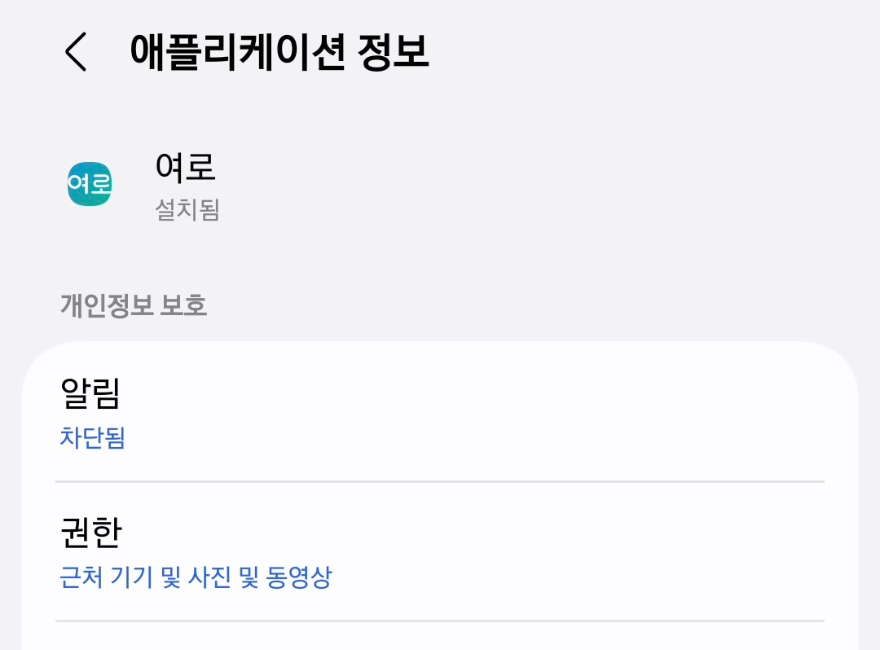
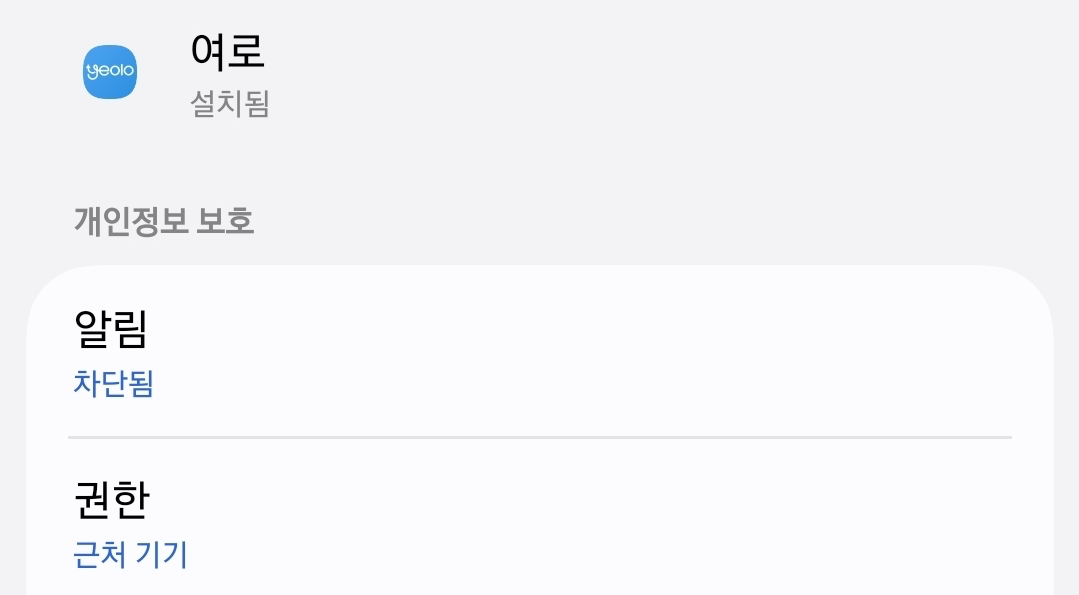
fix: 사진 권한 설정 버튼과 Android 안내 이미지 개선
- 전체 접근 권한에 따라 하단 버튼을 설정 이동 또는 취향 분석으로 전환
- 권한 설정 복귀 후 상태 갱신과 시작 전 권한 재확인 유지
- 중복 권한 안내 문구 제거 및 최신 앱 아이콘의 Android 안내 이미지 반영
- 권한 상태별 버튼 동작과 복귀 흐름 회귀 검증

diff --git a/packages/app/__tests__/OnboardingScreens.test.tsx b/packages/app/__tests__/OnboardingScreens.test.tsx
@@ -4,7 +4,7 @@
  */
 import React from 'react';
 import { AppState, Linking, Platform, type AppStateStatus } from 'react-native';
-import { act, fireEvent, waitFor } from '@testing-library/react-native';
+import { act, fireEvent } from '@testing-library/react-native';
 import { getPermissionsAsync } from 'expo-media-library';
 import { PhotoAuthExplainScreen } from '../src/screens/PhotoAuthExplainScreen';
 import { MBTIConsentScreen } from '../src/screens/MBTIConsentScreen';
@@ -45,6 +45,43 @@ beforeEach(() => {
   });
 });
 afterEach(() => jest.restoreAllMocks());
+
+it.each([
+  ['ios', 'limited', 'granted'],
+  ['ios', 'none', 'denied'],
+  ['android', 'limited', 'granted'],
+  ['android', 'none', 'denied'],
+] as const)(
+  '%s with %s access offers only the settings CTA and opens settings',
+  async (platform, accessPrivileges, status) => {
+    permission.mockResolvedValue({ status, accessPrivileges });
+    jest.replaceProperty(Platform, 'OS', platform);
+    const open = jest.spyOn(Linking, 'openSettings').mockResolvedValue();
+    const next = jest.fn();
+    const screen = await render(<PhotoAuthExplainScreen onNext={next} />);
+
+    expect(open).not.toHaveBeenCalled();
+    await fireEvent.press(
+      screen.getByRole('button', { name: '권한 설정으로 이동' }),
+    );
+
+    expect(open).toHaveBeenCalledTimes(1);
+    expect(next).not.toHaveBeenCalled();
+    expect(
+      screen.queryByText('전체 사진 접근을 허용한 뒤 다시 눌러주세요.'),
+    ).toBeNull();
+    expect(
+      screen.getByRole('button', { name: '권한 설정으로 이동' }),
+    ).not.toHaveProp(
+      'accessibilityHint',
+      '전체 사진 접근을 허용한 뒤 다시 눌러주세요.',
+    );
+    expect(screen.queryByText(UI_STRINGS.PHOTO_AUTH.START)).toBeNull();
+    expect(
+      screen.getAllByRole('button', { name: '권한 설정으로 이동' }),
+    ).toHaveLength(1);
+  },
+);
 
 it('shows the captured Android permission steps and opens app settings from each step', async () => {
   jest.replaceProperty(Platform, 'OS', 'android');
@@ -100,11 +137,11 @@ it.each([
 ])('access %s cannot start analysis', async (accessPrivileges, status) => {
   permission.mockResolvedValue({ status, accessPrivileges });
   const next = jest.fn();
+  const open = jest.spyOn(Linking, 'openSettings').mockResolvedValue();
   const screen = await render(<PhotoAuthExplainScreen onNext={next} />);
-  await fireEvent.press(screen.getByText(UI_STRINGS.PHOTO_AUTH.START));
-  await waitFor(() => expect(permission).toHaveBeenCalledTimes(2));
+  await fireEvent.press(screen.getByText('권한 설정으로 이동'));
+  expect(open).toHaveBeenCalledTimes(1);
   expect(next).not.toHaveBeenCalled();
-  expect(screen.getByText(UI_STRINGS.PHOTO_AUTH.REQUIRED)).toBeTruthy();
 });
 
 it('keeps selected-photo analysis unavailable after returning from settings with limited access', async () => {
@@ -120,16 +157,27 @@ it('keeps selected-photo analysis unavailable after returning from settings with
   await act(async () => resume('active'));
   expect(next).not.toHaveBeenCalled();
   expect(screen.queryByText('선택한 사진으로 다시 분석')).toBeNull();
-  await fireEvent.press(screen.getByText(UI_STRINGS.PHOTO_AUTH.START));
-  expect(next).not.toHaveBeenCalled();
-  expect(screen.getByText(UI_STRINGS.PHOTO_AUTH.REQUIRED)).toBeTruthy();
+  expect(screen.queryByText(UI_STRINGS.PHOTO_AUTH.START)).toBeNull();
+  expect(screen.getByText('권한 설정으로 이동')).toBeTruthy();
 });
 
-it('does not continue if selected-photo permission is revoked before pressing start', async () => {
+it('switches to settings after permission is revoked while away', async () => {
+  let resume!: (state: AppStateStatus) => void;
+  jest
+    .spyOn(AppState, 'addEventListener')
+    .mockImplementation((_event, listener) => {
+      resume = listener;
+      return { remove: jest.fn() };
+    });
+  permission.mockResolvedValue({ status: 'granted', accessPrivileges: 'all' });
   const next = jest.fn();
   const screen = await render(<PhotoAuthExplainScreen onNext={next} />);
+  expect(screen.getByText(UI_STRINGS.PHOTO_AUTH.START)).toBeTruthy();
+  expect(screen.queryByText('권한 설정으로 이동')).toBeNull();
   permission.mockResolvedValue({ status: 'denied', accessPrivileges: 'none' });
-  await fireEvent.press(screen.getByText(UI_STRINGS.PHOTO_AUTH.START));
+  await act(async () => resume('active'));
+  expect(screen.queryByText(UI_STRINGS.PHOTO_AUTH.START)).toBeNull();
+  expect(screen.getByText('권한 설정으로 이동')).toBeTruthy();
   expect(next).not.toHaveBeenCalled();
 });
 
@@ -147,7 +195,7 @@ it('opens settings, refreshes on resume, and waits for an explicit start tap', a
   const screen = await render(<PhotoAuthExplainScreen onNext={next} />);
   await fireEvent.press(
     screen.getByRole('button', {
-      name: `${UI_STRINGS.PHOTO_AUTH.IOS_STEPS[0]}. ${UI_STRINGS.PHOTO_AUTH.OPEN_SETTINGS}`,
+      name: '권한 설정으로 이동',
     }),
   );
   expect(open).toHaveBeenCalledTimes(1);
@@ -159,6 +207,7 @@ it('opens settings, refreshes on resume, and waits for an explicit start tap', a
   expect(next).not.toHaveBeenCalled();
   await fireEvent.press(screen.getByText(UI_STRINGS.PHOTO_AUTH.START));
   expect(next).toHaveBeenCalledTimes(1);
+  expect(screen.queryByText('권한 설정으로 이동')).toBeNull();
   await screen.unmount();
   expect(remove).toHaveBeenCalled();
 });
@@ -168,6 +217,7 @@ it('rechecks a revoked permission even if the initial check was full', async () 
     status: 'granted',
     accessPrivileges: 'all',
   });
+  const open = jest.spyOn(Linking, 'openSettings').mockResolvedValue();
   const next = jest.fn();
   const screen = await render(<PhotoAuthExplainScreen onNext={next} />);
   expect(
@@ -175,6 +225,8 @@ it('rechecks a revoked permission even if the initial check was full', async () 
   ).toHaveProp('accessibilityHint', UI_STRINGS.PHOTO_AUTH.READY);
   await fireEvent.press(screen.getByText(UI_STRINGS.PHOTO_AUTH.START));
   expect(next).not.toHaveBeenCalled();
+  expect(open).toHaveBeenCalledTimes(1);
+  expect(screen.getByText('권한 설정으로 이동')).toBeTruthy();
 });
 
 it('permission check and settings failures remain recoverable in the same screen', async () => {
@@ -184,14 +236,13 @@ it('permission check and settings failures remain recoverable in the same screen
     .mockRejectedValue(new Error('settings error'));
   const next = jest.fn();
   const screen = await render(<PhotoAuthExplainScreen onNext={next} />);
-  await fireEvent.press(screen.getByText(UI_STRINGS.PHOTO_AUTH.START));
   expect(
     screen.getByText(UI_STRINGS.PHOTO_AUTH.PERMISSION_CHECK_ERROR),
   ).toBeTruthy();
   expect(next).not.toHaveBeenCalled();
   await fireEvent.press(
     screen.getByRole('button', {
-      name: `${UI_STRINGS.PHOTO_AUTH.IOS_STEPS[0]}. ${UI_STRINGS.PHOTO_AUTH.OPEN_SETTINGS}`,
+      name: '권한 설정으로 이동',
     }),
   );
   expect(screen.getByText(UI_STRINGS.PHOTO_AUTH.SETTINGS_ERROR)).toBeTruthy();

diff --git a/packages/app/src/screens/PhotoAuthExplainScreen.tsx b/packages/app/src/screens/PhotoAuthExplainScreen.tsx
@@ -1,6 +1,6 @@
 /**
  * @file PhotoAuthExplainScreen.tsx
- * @description Platform-specific photo access guidance using cropped settings images and full-access verification before analysis.
+ * @description Platform-specific photo guidance with a permission-aware settings or analysis action.
  */
 import BackSvg from '../../assets/ui-v3-onboarding/back.svg';
 import { Text } from '../components/common/Typography';
@@ -40,28 +40,31 @@ export function PhotoAuthExplainScreen({
   const insetStyles = StyleSheet.create({
     content: { paddingBottom: insets.bottom + 20 },
   });
-  const [message, setMessage] = useState<string>(
-    UI_STRINGS.PHOTO_AUTH.REQUIRED,
-  );
-  const [checking, setChecking] = useState(false);
-  const [attempted, setAttempted] = useState(false);
+  const [message, setMessage] = useState<string>();
+  const [hasFullAccess, setHasFullAccess] = useState(false);
+  const [checking, setChecking] = useState(true);
   const busy = useRef(false);
   const mounted = useRef(true);
   useEffect(() => {
     mounted.current = true;
     let active = true;
     const refresh = async () => {
+      setChecking(true);
       try {
         const access = await getPhotoAccess();
         if (active) {
+          setHasFullAccess(access === 'all');
           setMessage(
-            access === 'all'
-              ? UI_STRINGS.PHOTO_AUTH.READY
-              : UI_STRINGS.PHOTO_AUTH.REQUIRED,
+            access === 'all' ? UI_STRINGS.PHOTO_AUTH.READY : undefined,
           );
         }
       } catch {
-        if (active) setMessage(UI_STRINGS.PHOTO_AUTH.PERMISSION_CHECK_ERROR);
+        if (active) {
+          setHasFullAccess(false);
+          setMessage(UI_STRINGS.PHOTO_AUTH.PERMISSION_CHECK_ERROR);
+        }
+      } finally {
+        if (active) setChecking(false);
       }
     };
     void refresh();
@@ -78,15 +81,24 @@ export function PhotoAuthExplainScreen({
     if (busy.current) return;
     busy.current = true;
     setChecking(true);
-    setAttempted(true);
     try {
+      if (!hasFullAccess) {
+        await openSettings();
+        return;
+      }
       const access = await getPhotoAccess();
       if (!mounted.current) return;
+      setHasFullAccess(access === 'all');
       if (access === 'all') onNext(access);
-      else setMessage(UI_STRINGS.PHOTO_AUTH.REQUIRED);
+      else {
+        setMessage(undefined);
+        await openSettings();
+      }
     } catch {
-      if (mounted.current)
+      if (mounted.current) {
+        setHasFullAccess(false);
         setMessage(UI_STRINGS.PHOTO_AUTH.PERMISSION_CHECK_ERROR);
+      }
     } finally {
       busy.current = false;
       if (mounted.current) setChecking(false);
@@ -185,15 +197,18 @@ export function PhotoAuthExplainScreen({
             </Pressable>
           ))}
         </View>
-        {message !== UI_STRINGS.PHOTO_AUTH.READY &&
-          (attempted || message !== UI_STRINGS.PHOTO_AUTH.REQUIRED) && (
-            <Text accessibilityLiveRegion='polite' style={styles.status}>
-              {message}
-            </Text>
-          )}
+        {message && message !== UI_STRINGS.PHOTO_AUTH.READY ? (
+          <Text accessibilityLiveRegion='polite' style={styles.status}>
+            {message}
+          </Text>
+        ) : null}
         <View style={styles.actions}>
           <OnboardingButton
-            label={UI_STRINGS.PHOTO_AUTH.START}
+            label={
+              hasFullAccess
+                ? UI_STRINGS.PHOTO_AUTH.START
+                : UI_STRINGS.PHOTO_AUTH.SETTINGS_CTA
+            }
             onPress={() => void continueWithPhotos()}
             disabled={checking}
             accessibilityHint={message}
@@ -258,9 +273,9 @@ const styles = StyleSheet.create({
     width: '100%',
     height: '100%',
   },
-  androidAppImage: { aspectRatio: 880 / 650 },
-  androidPermissionsImage: { aspectRatio: 880 / 510 },
-  androidPhotosImage: { aspectRatio: 880 / 750 },
+  androidAppImage: { aspectRatio: 1079 / 595 },
+  androidPermissionsImage: { aspectRatio: 1080 / 210 },
+  androidPhotosImage: { aspectRatio: 1079 / 697 },
   imageCrop: { width: '100%', overflow: 'hidden' },
   searchCrop: { aspectRatio: 1170 / 213 },
   photosCrop: { aspectRatio: 1170 / 308 },

diff --git a/packages/app/src/constants/strings.ts b/packages/app/src/constants/strings.ts
@@ -197,6 +197,7 @@ export const UI_STRINGS = {
     ],
     START: '내 여행 취향 알아보기',
     OPEN_SETTINGS: '설정 열기',
+    SETTINGS_CTA: '권한 설정으로 이동',
     REQUIRED: '전체 사진 접근을 허용한 뒤 다시 눌러주세요.',
     READY: '전체 접근이 허용되었어요. 여행 취향을 알아볼 수 있어요.',
     PERMISSION_CHECK_ERROR:
